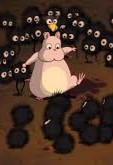
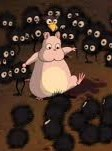
adjusted images a little, program is running a little better

diff --git a/assets/css/style.css b/assets/css/style.css
@@ -1,17 +1,20 @@
 body{
 	width: 800px;
+	background-color: #3167e2;
 	height:auto;
 	margin:auto;
+	font-family: 'Merriweather', serif;
 }
 
 header{
+	color:white;
 	text-align: center;
 }
 
 #container{
-	background-image: url("images/bathhouse.jpg");
-	background-repeat: no-repeat;
-	background-size: 793px 421px;
+	width: 800px;
+	background-color: #3167e2;
+	margin:auto;
 }
 
 h2{
@@ -19,7 +22,12 @@ h2{
 }
 
 p{
-	margin:0;
+	font-size: 80%;
+	margin: 0;
+}
+
+#characters{
+	color:white;
 }
 
 .char{
@@ -40,10 +48,15 @@ p{
 }
 
 #battlefield{
-	width: 540px;
+	width: 520px;
+	height:265px;
+	background-image: url("../../images/bathhouse.jpg");
+	background-repeat: no-repeat;
+	background-size: 500px 265px;
 	padding-top: 60px;
 	float: left;
-	/*margin-left: 200px;*/
+	margin-left: 20px;
+	color: #b70303;
 	text-align: center;
 }
 

diff --git a/index.html b/index.html
@@ -3,11 +3,14 @@
 <head>
 	<title>rpg</title>
 	<link rel="stylesheet" type="text/css" href="assets/css/style.css">
+	<link href="https://fonts.googleapis.com/css?family=Merriweather" rel="stylesheet">
 
 	<script src="https://ajax.googleapis.com/ajax/libs/jquery/3.2.0/jquery.min.js"></script>
 
 </head>
 <body>
+
+<div id="container">
 <header>
 	<h1>Spirited Away Game</h1>
 </header>
@@ -51,6 +54,8 @@
 
 <div id="archnemesis" class="nem">
 	<!-- use jquery to move the selected nemesis to this area for battle-->
+
+</div>
 
 </div>
 

diff --git a/assets/javascript/rpg.js b/assets/javascript/rpg.js
@@ -67,6 +67,7 @@ console.log(Object.values(charstrength));
        ' <p class="points">points: <div id="nemesispnts">150</div> </p></div>');
 
       $("#battlefield").show();
+      $("#attack").show();
     }
 });
 
@@ -107,6 +108,7 @@ $("#attack").on("click", function() {
   //$("#battlefield").append("<p>ATTACK!</p>");
 
   if(heropnts<=0){
+    $("#attack").hide();
     $("#battlefield").append('<div id="gameOver"><h2>game over!</h2><p>Play Again?</p></div>');
     playBtn("yes");
     $("#yes").on("click", function (){
